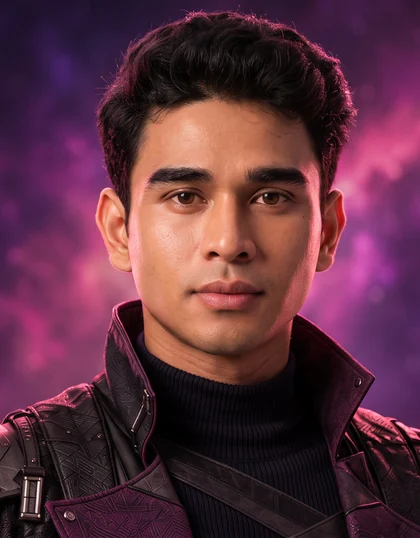
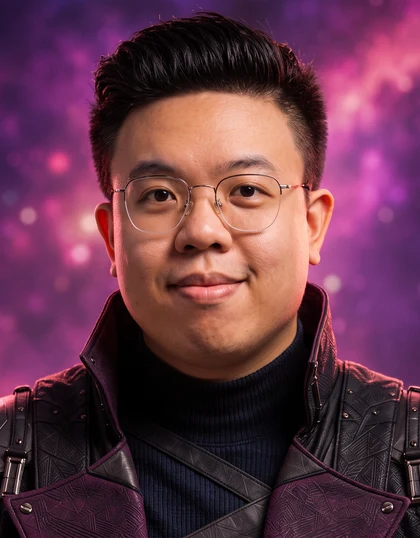
Fill 2 empty Partner Hero placeholder slots with new portraits
Replaces the generic AI-placeholder photos on 2 of the "PARTNER
HERO / FCU" filler cards in the Meet Our Heroes (Partner Heroes)
grid with the 2 new portraits provided, converted to webp and
cropped to the card's 420x538 aspect, face centered.

Claude-Session: https://claude.ai/code/session_01QpfYAiXFaQHcA12hC36bw4

diff --git a/index.html b/index.html
@@ -1508,7 +1508,7 @@
       body:`<section class="backers"><article class="backer"><div class="backer-media"><img class="backer-photo" src="network-sign-1.webp?v=2" alt="Deddy Corbuzier signing with FCU" loading="lazy"><img class="backer-logo" src="investor-logos/fcu.webp" alt="" loading="lazy"></div><div class="backer-info"><h3>DEDDY CORBUZIER</h3><span class="backer-role">Investor &amp; Strategic Partner</span><div class="backer-brand"><b>Flux Creative Universe</b></div><p>Deddy Corbuzier, widely known as the “Father of YouTube Indonesia” and a leading figure in the country’s digital media landscape, joined Flux Creative Universe as an investor and strategic partner on May 9, 2023. His involvement strengthens our vision for Indonesia’s next generation of creative businesses.</p><span class="backer-go" aria-hidden="true">→</span></div></article><article class="backer"><div class="backer-media"><img class="backer-photo" src="network-sign-2.webp?v=2" alt="Andrew Susanto signing with FCU" loading="lazy"><img class="backer-logo" src="investor-logos/bersinema.webp" style="height:3.4rem;max-width:9rem" alt="" loading="lazy"></div><div class="backer-info"><h3>ANDREW SUSANTO</h3><span class="backer-role">Investor</span><div class="backer-brand"><b>Bersinema</b></div><p>Andrew Susanto, an investor and prominent business figure associated with HW Group, invested in Bersinema, Flux Creative Universe’s pioneering TikTok vertical drama production house. Built on the growing potential of short-form entertainment, Bersinema consistently generates over 300 million views per month.</p><span class="backer-go" aria-hidden="true">→</span></div></article><article class="backer"><div class="backer-media"><img class="backer-photo" src="network-sign-3.webp?v=2" alt="Ivan Tanjaya signing with FCU" loading="lazy"><img class="backer-logo" src="investor-logos/holyflux.webp" alt="" loading="lazy"></div><div class="backer-info"><h3>IVAN TANJAYA</h3><span class="backer-role">Investor</span><div class="backer-brand"><b>HolyFlux</b></div><p>Building on Ivan Tanjaya’s experience as co-founder of HW Group, Flux Creative Universe partnered with him to establish HolyFlux Media on November 13, 2024. The venture brings together 7 media brands, collectively generating hundreds of millions of impressions per month.</p><span class="backer-go" aria-hidden="true">→</span></div></article><article class="backer"><div class="backer-media"><img class="backer-photo" src="network-sign-4.webp?v=2" alt="Rudy Salim signing with FCU" loading="lazy"><img class="backer-logo" src="investor-logos/privilege.webp" style="height:1.35rem;max-width:6.5rem" alt="" loading="lazy"></div><div class="backer-info"><h3>RUDY SALIM</h3><span class="backer-role">Investor &amp; Co-Founder</span><div class="backer-brand"><b>Privilege</b></div><p>Known as one of Indonesia’s “Crazy Rich” entrepreneurs, Rudy Salim built his reputation in the luxury automotive industry. He later co-founded Privilege with Flux Creative Universe, driven by the belief that every brand has the privilege to go viral.</p><span class="backer-go" aria-hidden="true">→</span></div></article><article class="backer"><div class="backer-media"><img class="backer-photo" src="network-sign-5.webp?v=2" alt="Grace Tahir signing with FCU" loading="lazy"></div><div class="backer-info"><h3>GRACE TAHIR</h3><span class="backer-role">Investor &amp; Co-Founder</span><div class="backer-brand"><b>Peak Digital Capital</b></div><p>Grace Tahir co-founded Peak Digital Capital with Yohanes Auri on March 2, 2023, as a joint venture between Everest Media and Flux Creative Universe. Through investments in multiple homeless media platforms, Peak is building a digital media network with a combined audience of millions of followers.</p><span class="backer-go" aria-hidden="true">→</span></div></article></section>`
     },
     'PARTNER HEROES':{eye:'04 / Creative Partners',heroes:true,lead:'',body:`<div class="ph-art" role="img" aria-label="Yohanes Auri"></div>
-        <div class="ph-deck"><button class="ph-dnav prev" data-dir="-1" aria-label="Sebelumnya">‹</button><div class="hc-grid"><button class="hc hc-gone" data-hero="0" style="--d:0" hidden><span class="hc-n">01</span><img src="heroes/p01.webp?v=3" alt="" loading="lazy"><span class="hc-name">YOHANES AURI</span><span class="hc-brand">FCU</span></button><button class="hc is-on" data-hero="1" style="--d:1"><span class="hc-n">02</span><img src="heroes/p02.webp?v=2" alt="" loading="lazy"><span class="hc-name">BEN EDGAR</span><span class="hc-brand">Adsventure</span></button><button class="hc" data-hero="2" style="--d:2"><span class="hc-n">03</span><img src="heroes/p03.webp?v=2" alt="" loading="lazy"><span class="hc-name" style="white-space:normal;text-align:center;line-height:1.15">ALDHO MULIA TRIJAYA</span><span class="hc-brand">Bersinema</span></button><button class="hc" data-hero="3" style="--d:3"><span class="hc-n">04</span><img src="heroes/p04.webp?v=2" alt="" loading="lazy"><span class="hc-name">NOBITADIT</span><span class="hc-brand">NEEDED</span></button><button class="hc hc-duo" data-hero="4" style="--d:4"><span class="hc-n">05–06</span><img src="heroes/p05.webp?v=2" alt="" loading="lazy"><span class="hc-name">WILLIAM &amp; NABEEL</span><span class="hc-brand">Ngiklan Creative</span></button><button class="hc hc-gone" data-hero="5" style="--d:5" hidden><span class="hc-n">06</span><img src="heroes/p06.webp" alt="" loading="lazy"><span class="hc-name">RUDY SALIM</span><span class="hc-brand">Privilege</span></button><button class="hc" data-hero="6" style="--d:6"><span class="hc-n">07</span><img src="heroes/p07.webp?v=3" alt="" loading="lazy"><span class="hc-name">MARVELLINO</span><span class="hc-brand">UNEXPLND</span></button><button class="hc" data-hero="7" style="--d:7"><span class="hc-n">08</span><img src="heroes/p08.webp?v=3" alt="" loading="lazy"><span class="hc-name">DANDI WENAS</span><span class="hc-brand">WAH GENZ</span></button><button class="hc hc-duo" data-hero="8" style="--d:8"><span class="hc-n">09–10</span><img src="heroes/p09.webp?v=3" alt="" loading="lazy"><span class="hc-name">CHENDWI &amp; WULAN</span><span class="hc-brand">SS Media</span></button><button class="hc hc-gone" data-hero="9" style="--d:9" hidden><span class="hc-n">10</span><img src="heroes/p10.webp?v=2" alt="" loading="lazy"><span class="hc-name">ALDI</span><span class="hc-brand">KA</span></button><button class="hc hc-duo" data-hero="10" style="--d:0"><span class="hc-n">11–12</span><img src="heroes/p11.webp?v=4" alt="" loading="lazy"><span class="hc-name">KARINA &amp; SYELINDA</span><span class="hc-brand">NÜMEN</span></button><button class="hc hc-gone" data-hero="11" style="--d:1" hidden><span class="hc-n">12</span><img src="heroes/p12.webp?v=2" alt="" loading="lazy"><span class="hc-name">BAYU</span><span class="hc-brand">Studio Lama</span></button><button class="hc" data-hero="12" style="--d:2"><span class="hc-n">13</span><img src="heroes/p13.webp?v=2" alt="" loading="lazy"><span class="hc-name" style="white-space:normal;text-align:center;line-height:1.15">GERY TIMOTHY GUNAWAN</span><span class="hc-brand">Demen Film</span></button><button class="hc" data-hero="13" style="--d:3"><span class="hc-n">14</span><img src="heroes/p14.webp?v=3" alt="" loading="lazy"><span class="hc-name">CARRIN FU</span><span class="hc-brand">Pikology</span></button><button class="hc hc-duo" data-hero="14" style="--d:4"><span class="hc-n">15–16</span><img src="heroes/p15.webp?v=3" alt="" loading="lazy"><span class="hc-name">LOUISE &amp; RARA</span><span class="hc-brand">LR Creative Lab</span></button><button class="hc hc-gone" data-hero="15" style="--d:5" hidden><span class="hc-n">16</span><img src="heroes/p16.webp?v=2" alt="" loading="lazy"><span class="hc-name">TIARA</span><span class="hc-brand">Playverse</span></button><button class="hc" data-hero="16" style="--d:6"><span class="hc-n">17</span><img src="heroes/p17.webp?v=3" alt="" loading="lazy"><span class="hc-name">LUQMAL CHAKIM</span><span class="hc-brand">HolyFlux Media</span></button><button class="hc" data-hero="17" style="--d:7"><span class="hc-n">18</span><img src="heroes/p18.webp?v=3" alt="" loading="lazy"><span class="hc-name">CHIA NURSANTIO</span><span class="hc-brand">PRAVIA</span></button><button class="hc hc-duo" data-hero="18" style="--d:8"><span class="hc-n">19–20</span><img src="heroes/p19.webp?v=3" alt="" loading="lazy"><span class="hc-name">LUCKY &amp; ACUY</span><span class="hc-brand">The Curious</span></button><button class="hc hc-gone" data-hero="19" style="--d:9" hidden><span class="hc-n">20</span><img src="heroes/p20.webp" alt="" loading="lazy"><span class="hc-name">DIMAS</span><span class="hc-brand">Growth Hub</span></button><button class="hc" data-hero="20" style="--d:0"><span class="hc-n">21</span><img src="heroes/p21.webp?v=1" alt="" loading="lazy"><span class="hc-name">PARTNER HERO</span><span class="hc-brand">FCU</span></button><button class="hc" data-hero="21" style="--d:1"><span class="hc-n">22</span><img src="heroes/p22.webp?v=1" alt="" loading="lazy"><span class="hc-name">PARTNER HERO</span><span class="hc-brand">FCU</span></button><button class="hc" data-hero="22" style="--d:2"><span class="hc-n">23</span><img src="heroes/p23.webp?v=1" alt="" loading="lazy"><span class="hc-name">RILLY YUNIARDA</span><span class="hc-brand">Impressive</span></button><button class="hc" data-hero="23" style="--d:3"><span class="hc-n">24</span><img src="heroes/p24.webp?v=1" alt="" loading="lazy"><span class="hc-name">KIKI TOBING</span><span class="hc-brand">Oxygen</span></button><button class="hc" data-hero="24" style="--d:4"><span class="hc-n">25</span><img src="heroes/p25.webp?v=1" alt="" loading="lazy"><span class="hc-name">JAILANI</span><span class="hc-brand">Flux Design</span></button><button class="hc hc-duo" data-hero="25" style="--d:5"><span class="hc-n">25–26</span><img src="heroes/p26.webp?v=1" alt="" loading="lazy"><span class="hc-name">ZUFAR ASYRAF</span><span class="hc-brand">GetCore</span></button><button class="hc hc-soon hc-gone" data-hero="26" style="--d:6" tabindex="-1" aria-label="Coming soon" hidden><span class="hc-n">27</span><span class="hc-name">COMING SOON</span><span class="hc-brand">Partner Hero</span></button><button class="hc hc-bot" data-hero="27" style="--d:7"><span class="hc-n">27</span><img src="heroes/p28.webp?v=3" alt="" loading="lazy"><span class="hc-name">PARTNER HERO</span><span class="hc-brand">FCU</span></button><button class="hc hc-bot" data-hero="28" style="--d:8"><span class="hc-n">28</span><img src="heroes/p29.webp?v=1" alt="" loading="lazy"><span class="hc-name">DAVINA</span><span class="hc-brand">Folkshitkuy</span></button></div><button class="ph-dnav next" data-dir="1" aria-label="Berikutnya">›</button></div>
+        <div class="ph-deck"><button class="ph-dnav prev" data-dir="-1" aria-label="Sebelumnya">‹</button><div class="hc-grid"><button class="hc hc-gone" data-hero="0" style="--d:0" hidden><span class="hc-n">01</span><img src="heroes/p01.webp?v=3" alt="" loading="lazy"><span class="hc-name">YOHANES AURI</span><span class="hc-brand">FCU</span></button><button class="hc is-on" data-hero="1" style="--d:1"><span class="hc-n">02</span><img src="heroes/p02.webp?v=2" alt="" loading="lazy"><span class="hc-name">BEN EDGAR</span><span class="hc-brand">Adsventure</span></button><button class="hc" data-hero="2" style="--d:2"><span class="hc-n">03</span><img src="heroes/p03.webp?v=2" alt="" loading="lazy"><span class="hc-name" style="white-space:normal;text-align:center;line-height:1.15">ALDHO MULIA TRIJAYA</span><span class="hc-brand">Bersinema</span></button><button class="hc" data-hero="3" style="--d:3"><span class="hc-n">04</span><img src="heroes/p04.webp?v=2" alt="" loading="lazy"><span class="hc-name">NOBITADIT</span><span class="hc-brand">NEEDED</span></button><button class="hc hc-duo" data-hero="4" style="--d:4"><span class="hc-n">05–06</span><img src="heroes/p05.webp?v=2" alt="" loading="lazy"><span class="hc-name">WILLIAM &amp; NABEEL</span><span class="hc-brand">Ngiklan Creative</span></button><button class="hc hc-gone" data-hero="5" style="--d:5" hidden><span class="hc-n">06</span><img src="heroes/p06.webp" alt="" loading="lazy"><span class="hc-name">RUDY SALIM</span><span class="hc-brand">Privilege</span></button><button class="hc" data-hero="6" style="--d:6"><span class="hc-n">07</span><img src="heroes/p07.webp?v=3" alt="" loading="lazy"><span class="hc-name">MARVELLINO</span><span class="hc-brand">UNEXPLND</span></button><button class="hc" data-hero="7" style="--d:7"><span class="hc-n">08</span><img src="heroes/p08.webp?v=3" alt="" loading="lazy"><span class="hc-name">DANDI WENAS</span><span class="hc-brand">WAH GENZ</span></button><button class="hc hc-duo" data-hero="8" style="--d:8"><span class="hc-n">09–10</span><img src="heroes/p09.webp?v=3" alt="" loading="lazy"><span class="hc-name">CHENDWI &amp; WULAN</span><span class="hc-brand">SS Media</span></button><button class="hc hc-gone" data-hero="9" style="--d:9" hidden><span class="hc-n">10</span><img src="heroes/p10.webp?v=2" alt="" loading="lazy"><span class="hc-name">ALDI</span><span class="hc-brand">KA</span></button><button class="hc hc-duo" data-hero="10" style="--d:0"><span class="hc-n">11–12</span><img src="heroes/p11.webp?v=4" alt="" loading="lazy"><span class="hc-name">KARINA &amp; SYELINDA</span><span class="hc-brand">NÜMEN</span></button><button class="hc hc-gone" data-hero="11" style="--d:1" hidden><span class="hc-n">12</span><img src="heroes/p12.webp?v=2" alt="" loading="lazy"><span class="hc-name">BAYU</span><span class="hc-brand">Studio Lama</span></button><button class="hc" data-hero="12" style="--d:2"><span class="hc-n">13</span><img src="heroes/p13.webp?v=2" alt="" loading="lazy"><span class="hc-name" style="white-space:normal;text-align:center;line-height:1.15">GERY TIMOTHY GUNAWAN</span><span class="hc-brand">Demen Film</span></button><button class="hc" data-hero="13" style="--d:3"><span class="hc-n">14</span><img src="heroes/p14.webp?v=3" alt="" loading="lazy"><span class="hc-name">CARRIN FU</span><span class="hc-brand">Pikology</span></button><button class="hc hc-duo" data-hero="14" style="--d:4"><span class="hc-n">15–16</span><img src="heroes/p15.webp?v=3" alt="" loading="lazy"><span class="hc-name">LOUISE &amp; RARA</span><span class="hc-brand">LR Creative Lab</span></button><button class="hc hc-gone" data-hero="15" style="--d:5" hidden><span class="hc-n">16</span><img src="heroes/p16.webp?v=2" alt="" loading="lazy"><span class="hc-name">TIARA</span><span class="hc-brand">Playverse</span></button><button class="hc" data-hero="16" style="--d:6"><span class="hc-n">17</span><img src="heroes/p17.webp?v=3" alt="" loading="lazy"><span class="hc-name">LUQMAL CHAKIM</span><span class="hc-brand">HolyFlux Media</span></button><button class="hc" data-hero="17" style="--d:7"><span class="hc-n">18</span><img src="heroes/p18.webp?v=3" alt="" loading="lazy"><span class="hc-name">CHIA NURSANTIO</span><span class="hc-brand">PRAVIA</span></button><button class="hc hc-duo" data-hero="18" style="--d:8"><span class="hc-n">19–20</span><img src="heroes/p19.webp?v=3" alt="" loading="lazy"><span class="hc-name">LUCKY &amp; ACUY</span><span class="hc-brand">The Curious</span></button><button class="hc hc-gone" data-hero="19" style="--d:9" hidden><span class="hc-n">20</span><img src="heroes/p20.webp" alt="" loading="lazy"><span class="hc-name">DIMAS</span><span class="hc-brand">Growth Hub</span></button><button class="hc" data-hero="20" style="--d:0"><span class="hc-n">21</span><img src="heroes/p21.webp?v=2" alt="" loading="lazy"><span class="hc-name">PARTNER HERO</span><span class="hc-brand">FCU</span></button><button class="hc" data-hero="21" style="--d:1"><span class="hc-n">22</span><img src="heroes/p22.webp?v=2" alt="" loading="lazy"><span class="hc-name">PARTNER HERO</span><span class="hc-brand">FCU</span></button><button class="hc" data-hero="22" style="--d:2"><span class="hc-n">23</span><img src="heroes/p23.webp?v=1" alt="" loading="lazy"><span class="hc-name">RILLY YUNIARDA</span><span class="hc-brand">Impressive</span></button><button class="hc" data-hero="23" style="--d:3"><span class="hc-n">24</span><img src="heroes/p24.webp?v=1" alt="" loading="lazy"><span class="hc-name">KIKI TOBING</span><span class="hc-brand">Oxygen</span></button><button class="hc" data-hero="24" style="--d:4"><span class="hc-n">25</span><img src="heroes/p25.webp?v=1" alt="" loading="lazy"><span class="hc-name">JAILANI</span><span class="hc-brand">Flux Design</span></button><button class="hc hc-duo" data-hero="25" style="--d:5"><span class="hc-n">25–26</span><img src="heroes/p26.webp?v=1" alt="" loading="lazy"><span class="hc-name">ZUFAR ASYRAF</span><span class="hc-brand">GetCore</span></button><button class="hc hc-soon hc-gone" data-hero="26" style="--d:6" tabindex="-1" aria-label="Coming soon" hidden><span class="hc-n">27</span><span class="hc-name">COMING SOON</span><span class="hc-brand">Partner Hero</span></button><button class="hc hc-bot" data-hero="27" style="--d:7"><span class="hc-n">27</span><img src="heroes/p28.webp?v=3" alt="" loading="lazy"><span class="hc-name">PARTNER HERO</span><span class="hc-brand">FCU</span></button><button class="hc hc-bot" data-hero="28" style="--d:8"><span class="hc-n">28</span><img src="heroes/p29.webp?v=1" alt="" loading="lazy"><span class="hc-name">DAVINA</span><span class="hc-brand">Folkshitkuy</span></button></div><button class="ph-dnav next" data-dir="1" aria-label="Berikutnya">›</button></div>
         <div class="ph-quote">
           <div class="ph-tag">DIFFERENT<br>EXPERTISES<br>ONE ECOSYSTEM<br>BIGGER<br>OPPORTUNITIES</div>
           <blockquote id="phQuote">Building next-generation creative businesses for Indonesia and beyond.</blockquote>
